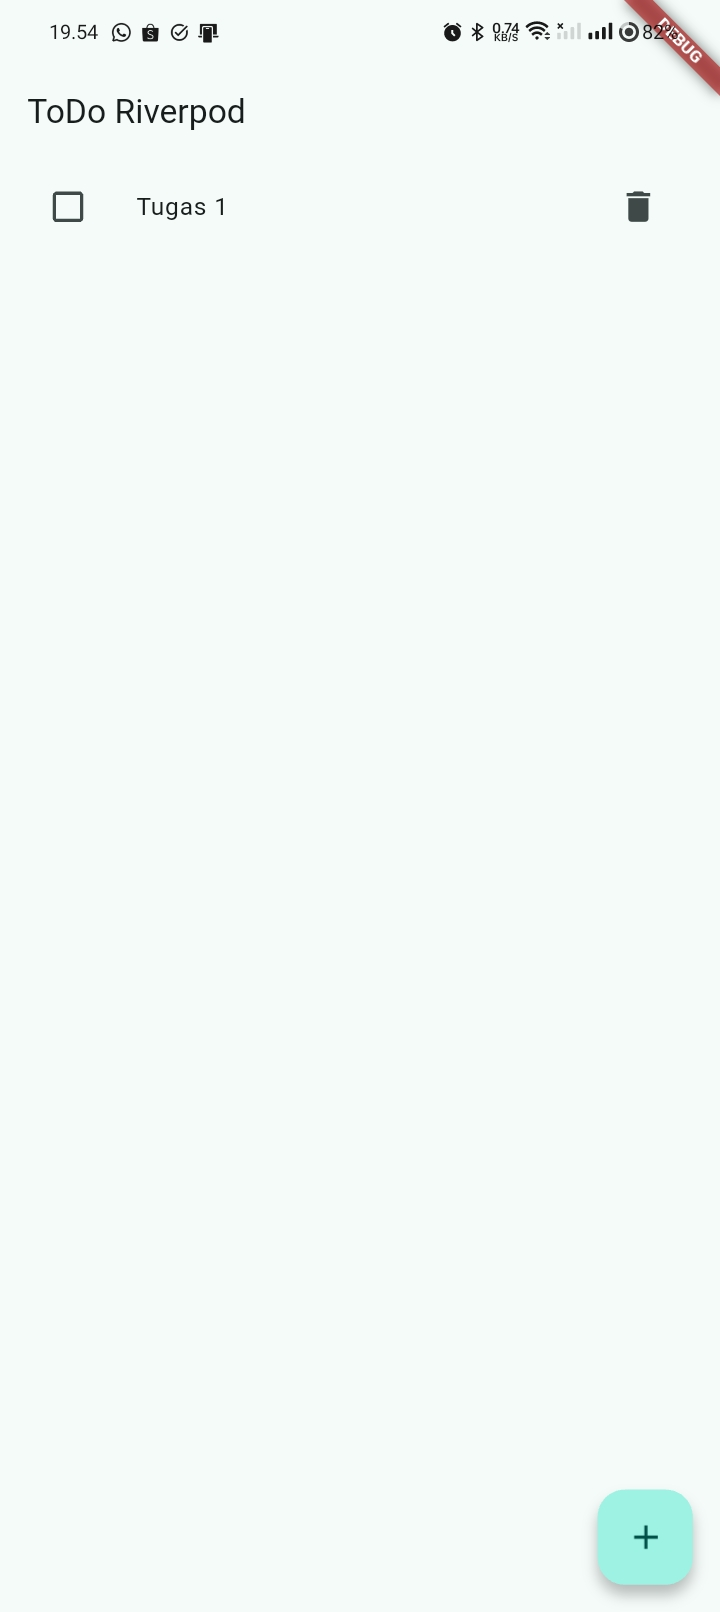
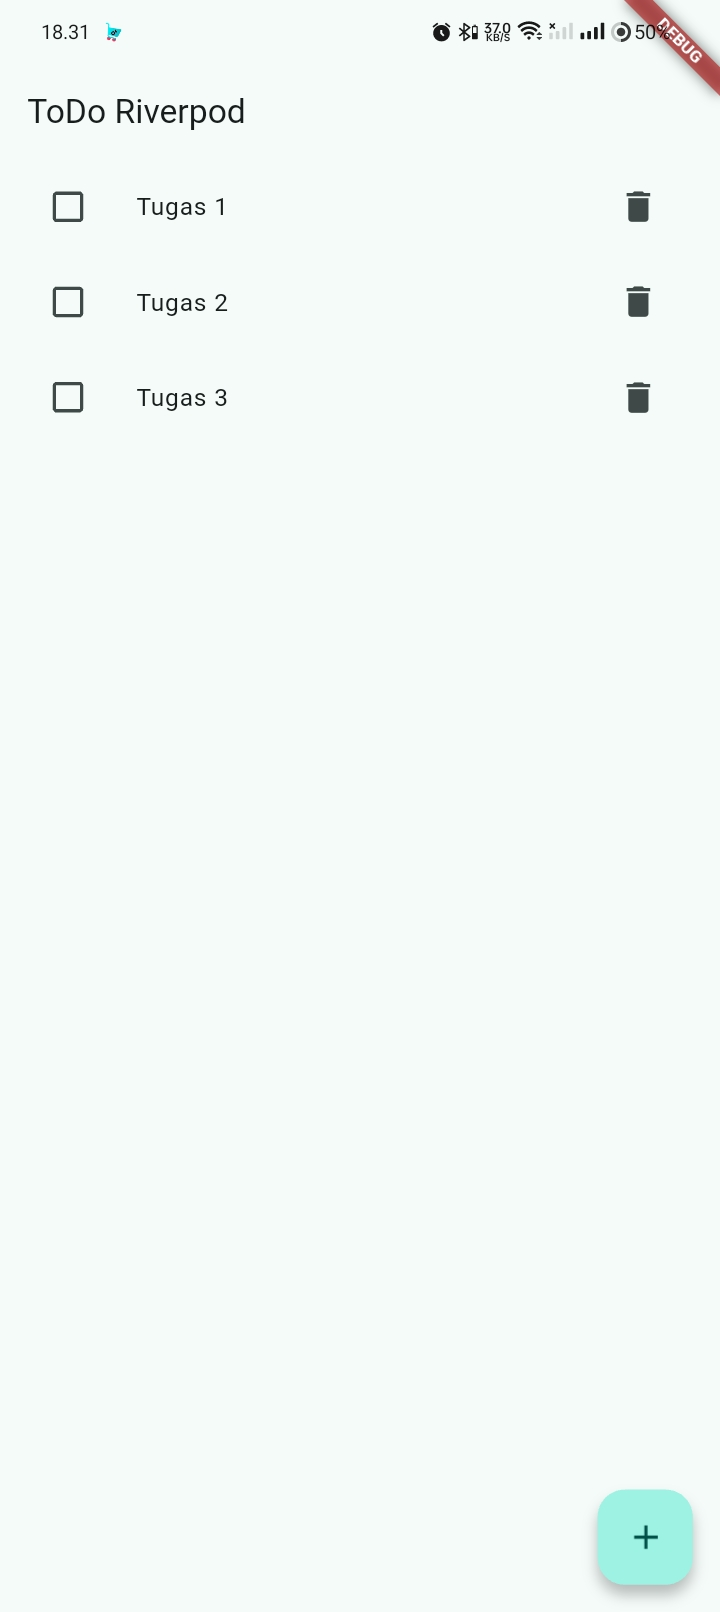
feat: add AsyncValue

diff --git a/03-week-3-navigation-state-management/week3_todo/lib/pages/product_page.dart b/03-week-3-navigation-state-management/week3_todo/lib/pages/product_page.dart
@@ -1,0 +1,36 @@
+import 'package:flutter/material.dart';
+import 'package:flutter_riverpod/flutter_riverpod.dart';
+import '../providers/products_provider.dart';
+
+class ProductPage extends ConsumerWidget {
+  const ProductPage({super.key});
+
+  @override
+  Widget build(BuildContext context, WidgetRef ref) {
+    final productsAsync = ref.watch(productsProvider);
+
+    return Scaffold(
+      appBar: AppBar(title: const Text('Produk')),
+      body: productsAsync.when(
+        loading: () => const Center(child: CircularProgressIndicator()),
+        error: (err, stack) => Center(
+          child: Column(
+            mainAxisSize: MainAxisSize.min,
+            children: [
+              Text('Gagal memuat: $err'),
+              FilledButton(
+                onPressed: () => ref.invalidate(productsProvider),
+                child: const Text('Coba lagi'),
+              ),
+            ],
+          ),
+        ),
+        data: (products) => ListView.builder(
+          itemCount: products.length,
+          itemBuilder: (context, index) =>
+              ListTile(title: Text(products[index])),
+        ),
+      ),
+    );
+  }
+}

diff --git a/03-week-3-navigation-state-management/week3_todo/lib/main.dart b/03-week-3-navigation-state-management/week3_todo/lib/main.dart
@@ -1,15 +1,30 @@
 import 'package:flutter/material.dart';
 import 'package:flutter_riverpod/flutter_riverpod.dart';
-import 'pages/todo_page.dart';
+import 'pages/product_page.dart';
 
-void main() => runApp(const ProviderScope(child: MyApp()));
+void main() {
+  runApp(
+    const ProviderScope(
+      child: MyApp(),
+    ),
+  );
+}
 
 class MyApp extends StatelessWidget {
   const MyApp({super.key});
+
   @override
-  Widget build(BuildContext context) => MaterialApp(
-        title: 'Week 3 - ToDo',
-        theme: ThemeData(colorSchemeSeed: Colors.teal, useMaterial3: true),
-        home: const TodoPage(),
-      );
+  Widget build(BuildContext context) {
+    return MaterialApp(
+      debugShowCheckedModeBanner: false,
+      title: 'Praktikum 3',
+      theme: ThemeData(
+        colorScheme: ColorScheme.fromSeed(
+          seedColor: Colors.blue,
+        ),
+        useMaterial3: true,
+      ),
+      home: const ProductPage(),
+    );
+  }
 }

diff --git a/03-week-3-navigation-state-management/week3_todo/lib/providers/products_provider.dart b/03-week-3-navigation-state-management/week3_todo/lib/providers/products_provider.dart
@@ -1,0 +1,23 @@
+import 'package:flutter_riverpod/flutter_riverpod.dart';
+
+class ProductsNotifier extends AsyncNotifier<List<String>> {
+  @override
+  Future<List<String>> build() async {
+    await Future.delayed(const Duration(seconds: 2)); // simulasi network
+    return ['Keyboard', 'Mouse', 'Monitor'];
+  }
+
+  Future<void> refresh() async {
+    state = const AsyncLoading();
+    state = await AsyncValue.guard(() => _fetch());
+  }
+
+  Future<List<String>> _fetch() async {
+    await Future.delayed(const Duration(seconds: 1));
+    return ['Keyboard', 'Mouse', 'Monitor', 'Headset'];
+  }
+}
+
+final productsProvider =
+    AsyncNotifierProvider<ProductsNotifier, List<String>>(
+        ProductsNotifier.new);
